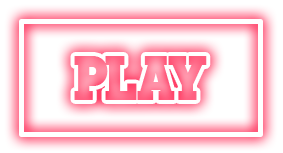
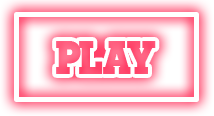
Nombres jugadores (Modificacion interzas de incio)

diff --git a/src/vistaVentanas/VentanaInicio.java b/src/vistaVentanas/VentanaInicio.java
@@ -12,8 +12,9 @@ import javax.swing.*;
 
 public class VentanaInicio extends JFrame implements ActionListener {
 
+    private JTextField txtplayer1, txtplayer2;
     //Imagenes del juego (5)
-    private Decolib im1, im2, im3, im4, im5, im6;
+    private Decolib im1, im2, im3, im4, im5, im6, im7;
     //boton de jugar
     private JButton btninicarJuego;
     //panel
@@ -41,23 +42,23 @@ public class VentanaInicio extends JFrame implements ActionListener {
         add(im1);
 
         im2 = new Decolib("/Imgs/St/tik.png");
-        im2.setBounds((int)118.78, (int)144.28, 222, 120);
+        im2.setBounds((int)108.78, (int)95.28, 222, 120);
         add(im2);
 
         im3 = new Decolib("/Imgs/St/tac.png");
-        im3.setBounds((int) 207.5, (int) 261.5, 223, 117);
+        im3.setBounds((int) 77.5, (int) 271.5, 223, 117);
         add(im3);
         
         im4 = new Decolib("/Imgs/St/toe.png");
-        im4.setBounds((int) 297.5, (int) 390.5, 234, 117);
+        im4.setBounds((int) 165.5, (int) 435.5, 234, 117);
         add(im4);
 
         im5 = new Decolib("/Imgs/St/xo.png");
-        im5.setBounds((int) 672.75, (int) 97.88, 172, 170);
+        im5.setBounds((int) 702.75, (int) 72.88, 172, 170);
         add(im5);
 
         btninicarJuego = new JButton();
-        btninicarJuego.setBounds(563, 283, 283, 153);
+        btninicarJuego.setBounds((int)490.91, (int) 406.78, 214, 116);
         btninicarJuego.setOpaque(true);
         btninicarJuego.setContentAreaFilled(false);
         btninicarJuego.setBorderPainted(false);
@@ -65,22 +66,84 @@ public class VentanaInicio extends JFrame implements ActionListener {
 
         //añadirle imagen al boton
         im6 = new Decolib("/Imgs/St/btplay.png");
-        im6.setBounds(564,283, 283, 153);
+        im6.setBounds((int)490.91, (int)406.78, 214, 116);
         add(im6);
+
+        im7 = new Decolib("/Imgs/St/players.png");
+        im7.setBounds((int)344.13, 270, 517, 117 );
+        add(im7);
+
+        txtplayer1 = new JTextField("Player 1");
+        txtplayer1.setHorizontalAlignment(SwingConstants.CENTER);
+        txtplayer1.setBounds(376,301,204,59);
+        txtplayer1.setForeground(Color.white);
+        txtplayer1.setFont(new Font("arial", Font.ROMAN_BASELINE, 30));
+        txtplayer1.setOpaque(false);
+        txtplayer1.setBorder(BorderFactory.createEmptyBorder());
+        add(txtplayer1);
+
+        txtplayer2 = new JTextField("Player 2");
+        txtplayer2.setHorizontalAlignment(SwingConstants.CENTER);
+        txtplayer2.setBounds(620,301,204,59);
+        txtplayer2.setForeground(Color.white);
+        txtplayer2.setFont(new Font("arial", Font.ROMAN_BASELINE, 30));
+        txtplayer2.setOpaque(false);
+        txtplayer2.setBorder(BorderFactory.createEmptyBorder());
+        add(txtplayer2);
+        
         
         btninicarJuego.addActionListener(this);
 
+
+        txtplayer1.addFocusListener(new FocusListener() {
+            public void focusGained(FocusEvent e) {
+                txtplayer1.setText("");
+            }
+        
+            @Override
+            public void focusLost(FocusEvent e) {
+                //no hacer nada aqui
+            }
+        });
+
+        txtplayer2.addFocusListener(new FocusListener() {
+            public void focusGained(FocusEvent e) {
+                txtplayer2.setText("");
+            }
+        
+            @Override
+            public void focusLost(FocusEvent e) {
+                //no hacer nada aqui
+            }
+        });
+
     }
+
 
     @Override
     public void actionPerformed(ActionEvent evento) {
         // TODO Auto-generated method stub
-       if (evento.getSource() == btninicarJuego); {
-        dispose();
-        VentanaModoJuego ventana = new VentanaModoJuego();
+       if (evento.getSource() == btninicarJuego) {
+        textselec();
        }
     }
 
+    private void textselec(){
+        String nombrep1 = txtplayer1.getText();
+        String nombrep2 = txtplayer2.getText();
+        if(nombrep1.trim().isEmpty() || nombrep1.trim().equals("Player 1") || nombrep2.trim().isEmpty() || nombrep2.trim().equals("Player 2")) {
+            JOptionPane.showMessageDialog(null, "PORFAVOR INGRESE SUS NOMBRES PARA INICAR EN CASO DE JUGAR SOLO INGRESE BOT EN SEGUNDO JUGADOR", "Advertencia", JOptionPane.ERROR_MESSAGE);
+            if(nombrep1.trim().isEmpty() || nombrep1.trim().equals("Player 1")) {
+                txtplayer1.requestFocus();
+            } else {
+                txtplayer2.requestFocus();
+            }
+        } else {
+            dispose();
+            VentanaModoJuego ventana = new VentanaModoJuego();
+        }
+        
 
-
+    }
+    
 }
